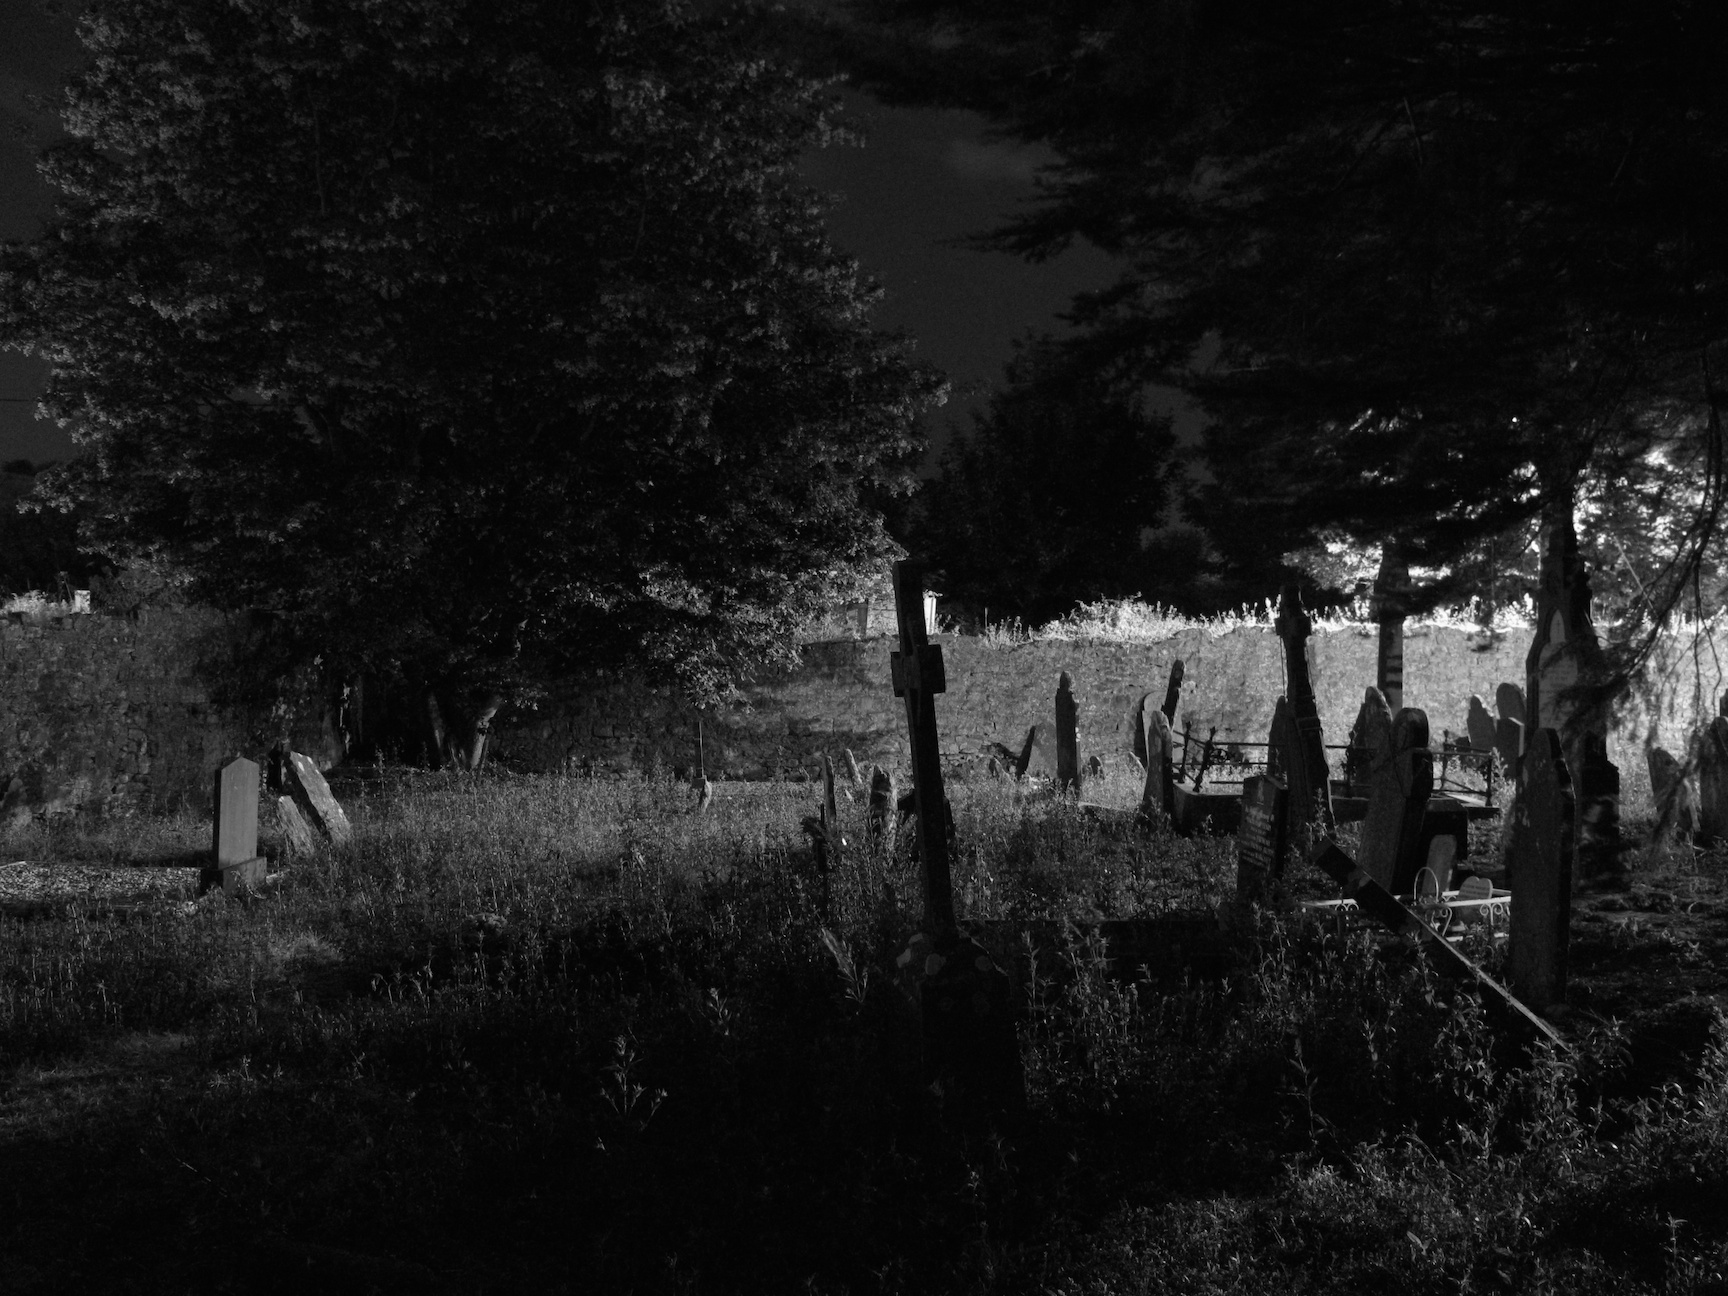
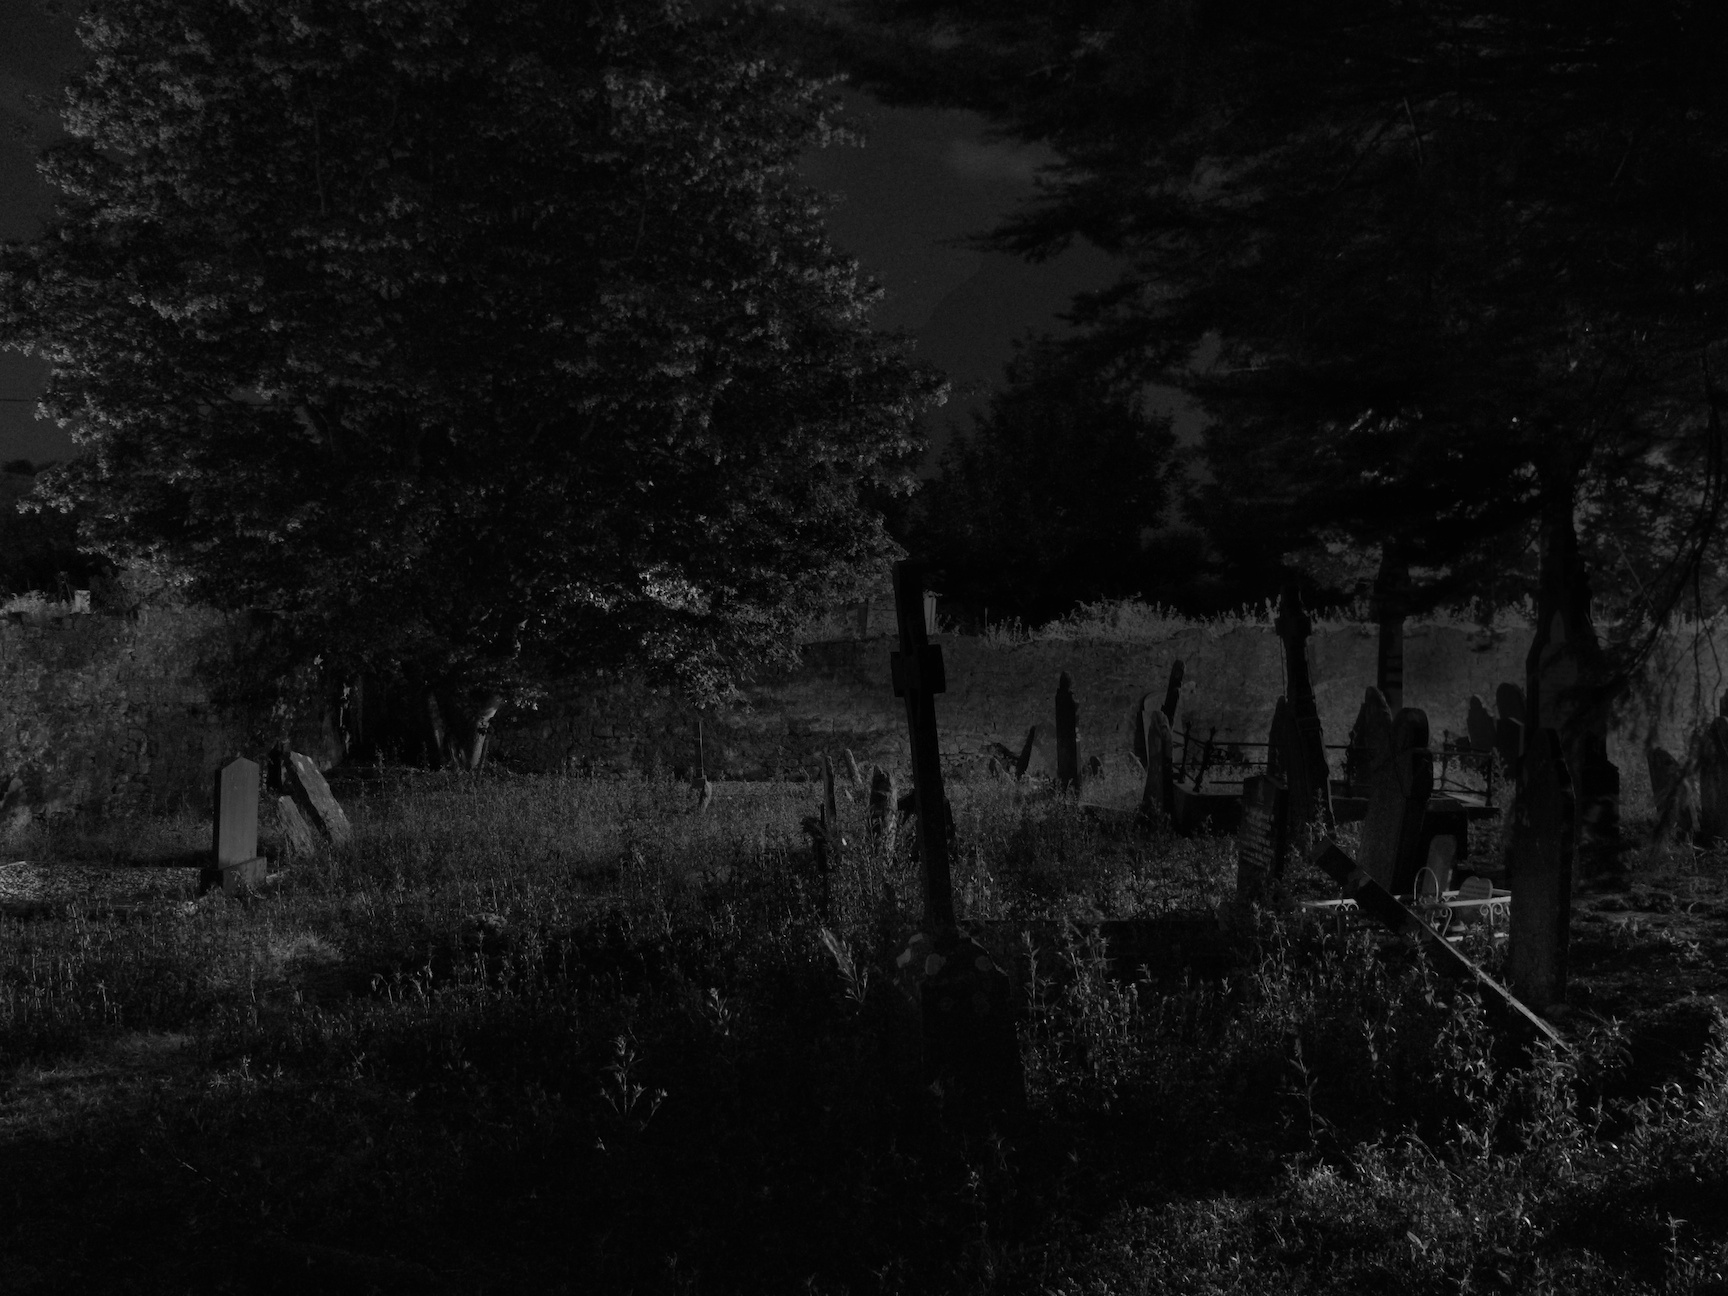
vampire emerges from the casket

Changed region(s): [[0.0, 0.3086, 1.0, 0.7099], [0.0, 0.463, 0.0625, 0.5247], [0.7812, 0.3086, 0.8125, 0.3395]]

diff --git a/samcarter/vampires/vampires.tex b/samcarter/vampires/vampires.tex
@@ -1,0 +1,88 @@
+\documentclass{beamer}
+
+\usepackage{tikz}
+\usepackage{tikzducks,tikzlings}
+\usetikzlibrary{calc}
+
+\setbeamertemplate{background canvas}{
+  \includegraphics[height=\paperheight]{Temple_Hill_Graveyard_(Cork)_at_night_04}
+}
+
+%\selectcolormodel{gray}
+\setbeamertemplate{navigation symbols}{}
+\definecolor{c948981}{RGB}{148,137,129}
+\definecolor{c55463e}{RGB}{85,70,62}
+\definecolor{c382a25}{RGB}{56,42,37}
+\definecolor{c60504a}{RGB}{96,80,74}
+\definecolor{c766c64}{RGB}{118,108,100}
+\definecolor{cbba882}{RGB}{187,168,130}
+\definecolor{ce9ddb6}{RGB}{233,221,182}
+
+\def\mypages{200}
+
+\begin{document}
+
+\begin{frame}
+  \begin{tikzpicture}[remember picture, overlay]
+    \begin{scope}[
+      scale=1.6,
+      yscale=-1,
+      yshift=-3.5cm,
+      xshift=-1cm
+    ]
+      % Back panels
+      \filldraw[c948981] (4.9516,5.4308) -- (4.6749,5.2310) -- (4.6852,5.7996) -- cycle;
+      \filldraw[c55463e] (4.6749,5.2310) -- (3.5018,5.1439) -- (3.5172,5.9380) -- (4.6852,5.7996) -- cycle;
+      \filldraw[c382a25] (3.5018,5.1439) -- (0.8943,5.5281) -- (1.1812,5.9123) -- (3.5172,5.9380);
+      
+      % Lid
+      %      {start+(\thepage-1)*(stop-start)/(\mypages-1)}
+      \filldraw[c60504a]
+        (0.8943,5.5281) -- (
+          {1.1863+(\thepage-1)*(0.6791-1.1863)/(\mypages-1)} ,
+          {5.6818+(\thepage-1)*(4.9288-5.6818)/(\mypages-1)}
+        ) -- (
+          {3.9475+(\thepage-1)*(3.0817-3.9475)/(\mypages-1)} ,
+          {5.6767+(\thepage-1)*(3.9554-5.6767)/(\mypages-1)}
+        ) -- (
+          {4.9516+(\thepage-1)*(4.2497-4.9516)/(\mypages-1)} ,
+          {5.4308+(\thepage-1)*(3.9042-5.4308)/(\mypages-1)}
+        ) -- (
+          {4.6749+(\thepage-1)*(4.4598-4.6749)/(\mypages-1)} ,
+          {5.2310+(\thepage-1)*(4.4984-5.2310)/(\mypages-1)}
+        ) -- (3.5018,5.1439) -- cycle;
+            
+      % duck
+      \begin{scope}
+        \clip (0,0) rectangle (7,6);
+        \duck[
+          laughing,
+          vampire,
+          yscale=-1,
+          scale=0.8,
+          cape=red!80!black,
+          yshift={-265+(\thepage-1)*(-220+265)/(\mypages-1)},
+          xshift=3cm
+        ]
+      \end{scope}
+      
+      % front panels + deco
+      \filldraw[c766c64] (1.1863,5.6818) -- (3.9475,5.6767) -- (3.9424,6.4707) -- (1.1863,6.4656) -- cycle;
+      \filldraw[cbba882] (1.5414,6.0574) circle [radius=0.07];
+      \filldraw[cbba882] (1.9814,6.0530) circle [radius=0.07];
+      \filldraw[cbba882] (3.1782,6.0574) circle [radius=0.07];
+      \filldraw[cbba882] (3.6226,6.0530) circle [radius=0.07];
+      \filldraw[c948981] (0.8943,5.5281) -- (0.8994,6.3222) -- (1.1863,6.4656) -- (1.1863,5.6818) -- cycle;
+      \filldraw[c60504a] (3.9475,5.6767) -- (4.9516,5.4308) -- (4.9464,6.2351) -- (3.9424,6.4707) -- cycle;
+      \filldraw[cbba882] (4.3197,5.9732) circle [radius=0.07];
+      \filldraw[cbba882] (4.7049,5.8852) circle [radius=0.07];
+      \filldraw[ce9ddb6] (1.5112,6.0508) -- (1.5728,6.0508) -- (1.5816,6.1696) .. controls (1.6248,6.2049) and (1.7048,6.1710) .. (1.7664,6.1696) .. controls (1.8310,6.1682) and (1.9182,6.1999) .. (1.9600,6.1608) -- (1.9512,6.0508) -- (2.0084,6.0464) .. controls (2.0084,6.0464) and (2.0405,6.1567) .. (2.0260,6.2164) .. controls (2.0260,6.2164) and (1.8657,6.2520) .. (1.7840,6.2560) .. controls (1.7004,6.2602) and (1.5332,6.2402) .. (1.5332,6.2402) .. controls (1.5043,6.1821) and (1.5112,6.0508) .. (1.5112,6.0508) -- cycle;
+      \filldraw[ce9ddb6] (3.1524,6.0640) -- (3.2140,6.0640) -- (3.2228,6.1828) .. controls (3.2660,6.2181) and (3.3461,6.1842) .. (3.4077,6.1828) .. controls (3.4722,6.1814) and (3.5594,6.2131) .. (3.6013,6.1740) -- (3.5925,6.0640) -- (3.6497,6.0596) .. controls (3.6497,6.0596) and (3.6817,6.1699) .. (3.6673,6.2296) .. controls (3.6673,6.2296) and (3.5069,6.2652) .. (3.4253,6.2692) .. controls (3.3432,6.2732) and (3.1792,6.2534) .. (3.1792,6.2534) .. controls (3.1503,6.1953) and (3.1524,6.0640) .. (3.1524,6.0640) -- cycle;
+      \filldraw[ce9ddb6] (4.2893,5.9745) -- (4.3424,5.9621) -- (4.3743,6.0614) .. controls (4.4187,6.0827) and (4.4809,6.0378) .. (4.5337,6.0242) .. controls (4.5891,6.0099) and (4.6707,6.0193) .. (4.6988,5.9776) -- (4.6688,5.8858) -- (4.7172,5.8705) .. controls (4.7172,5.8705) and (4.7674,5.9579) .. (4.7671,6.0116) .. controls (4.7671,6.0116) and (4.6357,6.0732) .. (4.5665,6.0941) .. controls (4.4997,6.1143) and (4.3612,6.1348) .. (4.3612,6.1348) .. controls (4.3243,6.0912) and (4.2893,5.9745) .. (4.2893,5.9745) -- cycle;
+    \end{scope}
+    \node at ([yshift=0.2cm]current page.south) {\color{white}\tiny Background image: \url{https://commons.wikimedia.org/wiki/File:Temple_Hill_Graveyard_(Cork)_at_night_04.JPG}};
+  \end{tikzpicture}
+	\pause[\mypages]
+\end{frame}	
+
+\end{document}
